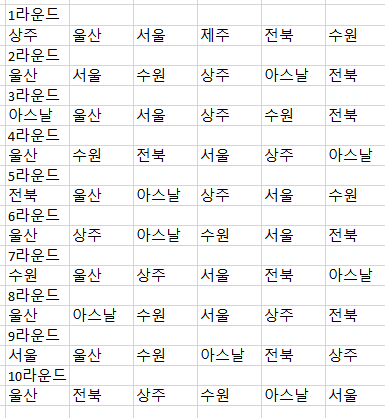
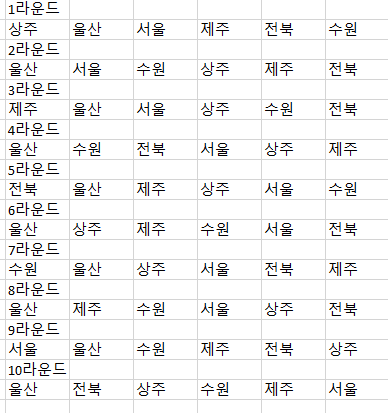
일정 아스날->제주 수정, 소피파 추가

diff --git a/homepage.html b/homepage.html
@@ -6,7 +6,9 @@
         <title>산돌리그</title>
     </head>
     
-    <a href="season1.html"> <h1>시즌 1 보러가기</h1> </a>
+    <a href="https://sofifa.com"> <h1>소피파</h1> </a>
+    
+    <a href="season1.html"> <h1>시즌 1 보러가기</h1> </a>    
     
     <h1>시즌 2 드래프트 현황</h1>
     <img src="image/draft.PNG">
